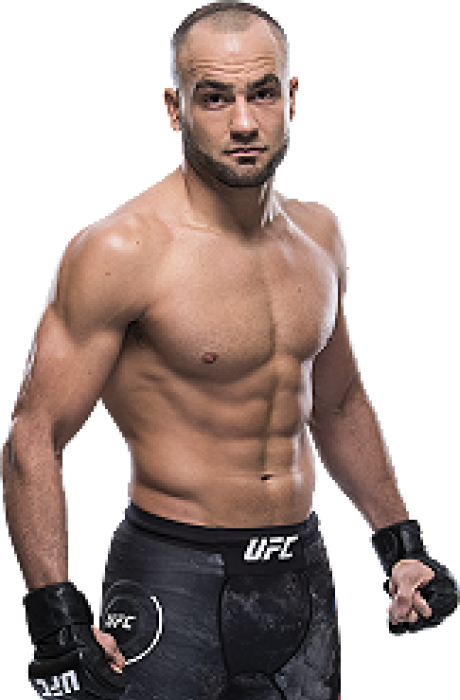
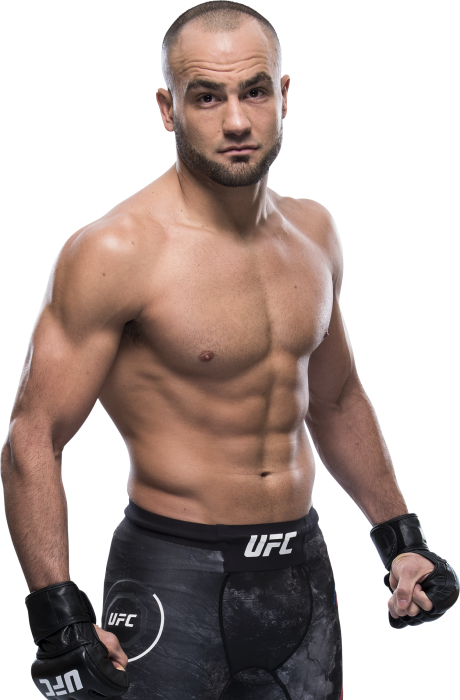
fighters fixed + fighter card format

diff --git a/src/index.css b/src/index.css
@@ -34,8 +34,8 @@
   margin: 10px;
   display: inline-block; */
   
-  height: 223px;
-  width: 165px; 
+  height: 223.5px;
+  width: 140px; 
   display: flex;
   justify-content: center; 
   align-items: center; 
@@ -50,9 +50,11 @@
 .picture img {
   /* max-width: calc(100%); 
   max-height: calc(100%); */
-  height: 200px; /* Maintain aspect ratio */
+  height: 260px; /* Maintain aspect ratio */
   display: block; /* Remove any default inline spacing */
-  margin: auto; /* Center the image horizontally within the container */
+  margin-top: -9px;
+  margin-left: 1px;
+  border-radius: 15px;
 }
 
 
@@ -69,16 +71,20 @@
   height: 50px;
   width: 155px;
   display: flex;
-  justify-content: center; /* Horizontally center the content */
-  align-items: center; /* Vertically center the content */
+  justify-content: center; 
+  align-items: center;
+  text-align: center;;
   border: 1px solid #dfe1e5;
   border-radius: 15px;
   background-color: white;
   box-shadow:rgba(32, 33, 36, 0.28) 0px 1px 6px 0px;
   color: white;
-  margin-bottom: 19px;
   font-family:'Avantgarde', TeX Gyre Adventor, URW Gothic L, sans-serif;
   font-size: 11px;
+}
+
+.weight-class > * {
+  margin-top: 12px;
 }
 
 .event {
@@ -129,8 +135,8 @@
   height: 51px;
   width: 155px;
   display: flex;
-  justify-content: center; /* Horizontally center the content */
-  align-items: center; /* Vertically center the content */
+  justify-content: center;
+  align-items: center;
   border: 1px solid #dfe1e5;
   border-radius: 15px;
   background-color: white;
@@ -179,23 +185,29 @@
   padding: 0;
   /* margin: 6px; */
   margin-top: 0px;
-  margin-bottom: 12px;
+  margin-bottom: 12.6px;
 }
+
 
 .card-body {
   display: flex;
   flex-direction: row; /* Stack items horizontally (this is the default for flex) */
+  
+}
+.card-body > * {
+  /* margin: 6px; */
+  margin-left: 13.4px;
 }
 
 .name{
   
   height: 50px;
-  width: 340px;
+  width: 338px;
   display: flex;
   justify-content: center; /* Horizontally center the content */
   align-items: center; /* Vertically center the content */
   border: 1px solid #dfe1e5;
-  border-radius: 15px;
+  border-radius: 14px;
   background-color: white;
   box-shadow:rgba(32, 33, 36, 0.28) 0px 1px 6px 0px;
   font-family:'Avantgarde', TeX Gyre Adventor, URW Gothic L, sans-serif;
@@ -203,10 +215,10 @@
   color:rgb(255, 255, 255);
   margin-bottom: -9px;
 }
-.textright {
+/* .textright {
   margin-left: auto;
   margin-right: 15px;
-}
+} */
 
 
 /* .modalBackground {
